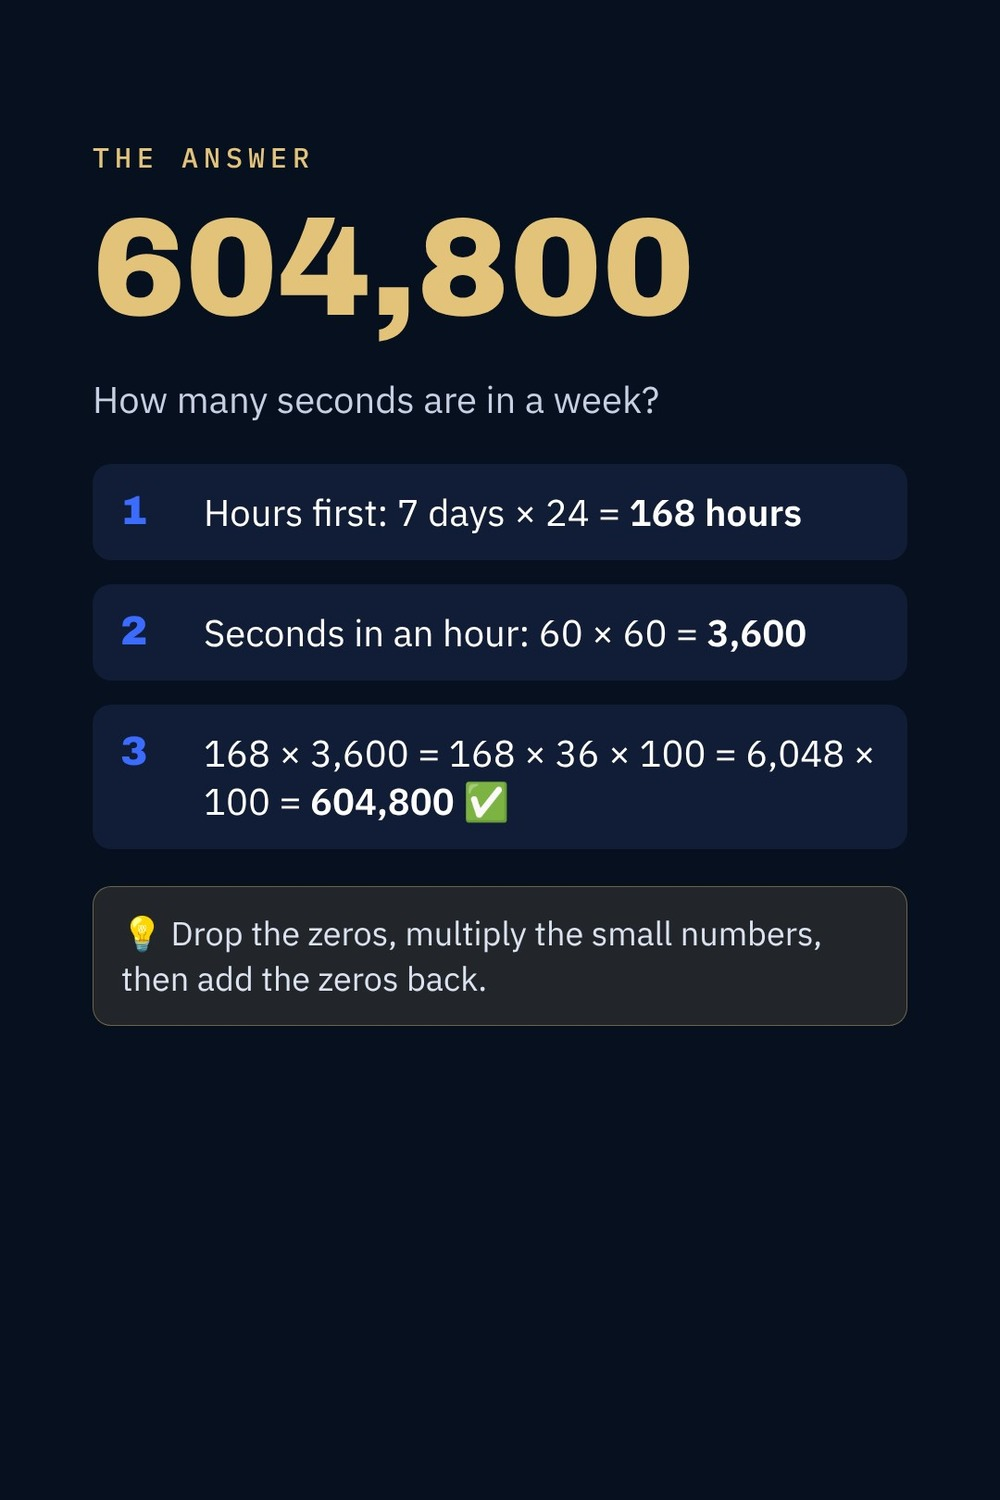
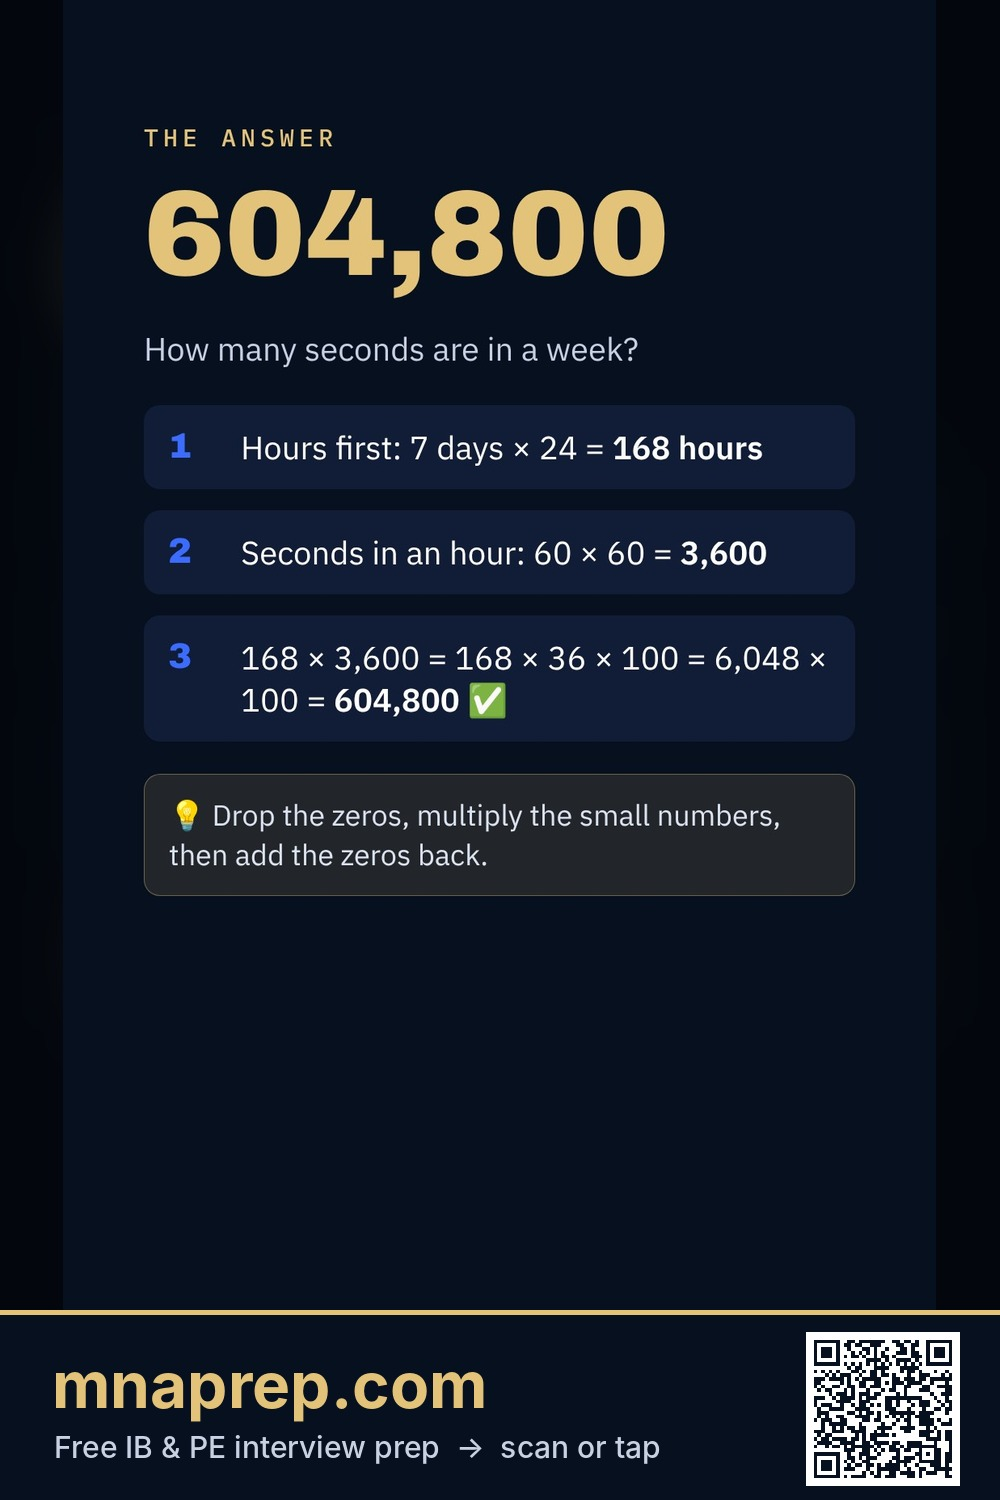
Pins: mnaprep.com + QR footer on every pin; rule: always link the website
Claude-Session: https://claude.ai/code/session_018SnaHurwArta7KomNBsgV8

Changed region(s): [[0.093, 0.0613, 0.93, 0.7053], [0.0, 0.8587, 1.0, 1.0], [0.496, 0.9507, 0.651, 0.9813]]

diff --git a/social/gen/ig.py b/social/gen/ig.py
@@ -3,12 +3,28 @@
 Usage: python3 ig.py OUTDIR slide1.jpg slide2.jpg ...
        python3 ig.py --pin OUTDIR slide.jpg ...   (1000x1500, 2:3 Pinterest pins)
 Trims empty rows at the bottom (TikTok button area), then fits the slide
-into 4:5, filling any side gap with a blurred, darkened copy of the slide."""
+into 4:5, filling any side gap with a blurred, darkened copy of the slide.
+Pins always get a footer with mnaprep.com + a QR code (Bekir: every post must link the site).
+Needs: pip install qrcode --break-system-packages"""
 import sys, os
-from PIL import Image, ImageChops, ImageFilter, ImageEnhance, ImageStat
+from PIL import Image, ImageChops, ImageFilter, ImageEnhance, ImageStat, ImageDraw, ImageFont
 args = sys.argv[1:]
-W, H = (1000, 1500) if args[0] == '--pin' else (1080, 1350)
-if args[0] == '--pin': args = args[1:]
+PIN = args[0] == '--pin'
+W, H = (1000, 1500) if PIN else (1080, 1350)
+FOOT = 190 if PIN else 0  # pin footer height
+if PIN: args = args[1:]
+def footer(img, key):
+    import qrcode
+    d = ImageDraw.Draw(img); y0 = H - FOOT
+    d.rectangle((0, y0, W, H), fill='#07101F'); d.rectangle((0, y0, W, y0 + 4), fill='#E3C27A')
+    f = lambda n, sz: ImageFont.truetype('/usr/share/fonts/opentype/inter/Inter-' + n + '.otf', sz)
+    try: big, small = f('Bold', 64), f('Medium', 30)
+    except OSError: big = small = ImageFont.load_default()
+    d.text((52, y0 + 36), 'mnaprep.com', font=big, fill='#E3C27A')
+    d.text((54, y0 + 118), 'Free IB & PE interview prep  \u2192  scan or tap', font=small, fill='#C9D2E3')
+    q = qrcode.QRCode(border=2, box_size=10); q.add_data('https://mnaprep.com/?utm_source=pinterest&utm_campaign=' + key); q.make(fit=True)
+    qi = q.make_image(fill_color='#07101F', back_color='white').convert('RGB').resize((FOOT - 36, FOOT - 36), Image.NEAREST)
+    img.paste(qi, (W - qi.width - 40, y0 + 22))
 out = args[0]; os.makedirs(out, exist_ok=True)
 for p in args[1:]:
     im = Image.open(p).convert('RGB')
@@ -22,10 +38,11 @@ for p in args[1:]:
     top = 0
     crop = im.crop((0, top * 4, 1080, max(bottom * 4, round(1080 * H / W))))
     cw, ch = crop.size
-    s = min(W / cw, H / ch)
+    s = min(W / cw, (H - FOOT) / ch)
     fg = crop.resize((round(cw * s), round(ch * s)), Image.LANCZOS)
     bg = crop.resize((W, round(ch * W / cw))).crop((0, 0, W, H)) if ch * W / cw >= H else crop.resize((W, H))
     bg = ImageEnhance.Brightness(bg.filter(ImageFilter.GaussianBlur(40))).enhance(0.45)
-    bg.paste(fg, ((W - fg.width) // 2, (H - fg.height) // 2))
+    bg.paste(fg, ((W - fg.width) // 2, (H - FOOT - fg.height) // 2))
+    if PIN: footer(bg, os.path.splitext(os.path.basename(p))[0])
     bg.save(os.path.join(out, os.path.basename(p)), quality=92)
     print(os.path.basename(p), f"content to y={bottom*4}", f"scale={s:.2f}")

diff --git a/social/DAILY.md b/social/DAILY.md
@@ -72,9 +72,12 @@ Every TikTok also goes to Instagram as a carousel at the same time (Bekir, 2026-
 - Schedule a separate Metricool post per carousel: providers [{"network":"instagram"}], media = the SHA-pinned raw URLs of the ig/ copies in slide order, `instagramData: {"type":"POST","isAiGenerated":false}`, same publication time as the TikTok version.
 - Caption: rewrite for Instagram (don't paste the TikTok caption): 1–2 short lines + a comment question + "Free practice at mnaprep.com (link in bio)" + 5–8 hashtags from the pool.
 
+## Always link the website (Bekir, 2026-11-09)
+Every post on every platform must point to mnaprep.com: the site's QR code or URL on the image (quiz/Blue Chip/oddq CTA slides, the pin footer) **and/or** the link itself (Pinterest `pinLink`, "mnaprep.com (link in bio)" in TikTok/Instagram captions). No exceptions, including finance-aesthetic pins and stories.
+
 ## 5c. Pinterest (account tiktokshopbk29, board "M&A Prep")
 One pin per post, same time as the TikTok (Bekir, 2026-11-09).
-- Pick the single best slide: the ranking chart (slide 2), the brain teaser's answer slide (slide 2), or the quiz/tip's clearest answer slide. Make it 2:3 with `python3 gen/ig.py --pin pin/<YYYY-MM-DD> <slide.jpg>` (from social/) and commit it.
+- Pick the single best slide: the ranking chart (slide 2), the brain teaser's answer slide (slide 2), or the quiz/tip's clearest answer slide. Make it 2:3 with `python3 gen/ig.py --pin pin/<YYYY-MM-DD> <slide.jpg>` (from social/; needs `pip install qrcode --break-system-packages`) and commit it. `--pin` adds a mnaprep.com + QR footer to every pin.
 - Metricool post: providers [{"network":"pinterest"}], media = the one SHA-pinned pin URL, `pinterestData: {"boardId":"M&A Prep","pinTitle":<searchable title, ≤100 chars, no emoji>,"pinLink":"https://mnaprep.com/","pinNewFormat":false,"isAiGenerated":false}`, text = 1–2 plain, keyword-rich sentences (Pinterest is search: "starting salary by major", "rule of 72", "investment banking interview questions"). No hashtags needed.
 - If the board can't be resolved, skip Pinterest for the run (don't fail the run) and mention it in the summary.
 
@@ -82,7 +85,7 @@ One pin per post, same time as the TikTok (Bekir, 2026-11-09).
 Boards (Bekir creates them on Pinterest; names must match exactly): Wall Street Salaries & Rankings · Banks, Deals & IPOs · Finance Brain Teasers · Investment Banking Interview Questions · DCF, LBO & Valuation Explained · Money Tips for Students · Finance Aesthetic · M&A Prep (catch-all).
 - Route each day's pins: Blue Chip pay/school/job rankings → Wall Street Salaries & Rankings; bank/deal/market rankings → Banks, Deals & IPOs; brain teasers → Finance Brain Teasers; interview quizzes → Investment Banking Interview Questions; DCF/LBO/valuation explainers → DCF, LBO & Valuation Explained; money tips → Money Tips for Students. If a board can't be resolved, fall back to "M&A Prep"; if that fails too, skip Pinterest.
 - **Backfill:** `social/pin/queue.json` lists ready-made pins (image, board, title, text, link). Every run, schedule up to 8 not-yet-posted items spread 12pm–11pm, set their `"posted": true`, commit.
-- **Finance aesthetic (Bekir, 2026-11-09: "doesn't even have to be about the website, just finance vibes with aesthetic pics"):** every day make 5 new cards with `node gen/aesthetic.js <spec> ../pin/aesthetic/<date>` (styles navy, cream, marble, skyline, chart; see pin/aesthetic/2026-11-09.json). Short original lines about money mindset, investing, compounding, Wall Street ambition. Never attribute a quote to a real person; any number must be checked in node. Pin them to "Finance Aesthetic" (no mnaprep.com promo needed in the text). Also render `--story` versions and use 2 of them as Instagram stories.
+- **Finance aesthetic (Bekir, 2026-11-09: "doesn't even have to be about the website, just finance vibes with aesthetic pics"):** every day make 5 new cards with `node gen/aesthetic.js <spec> ../pin/aesthetic/<date>` (styles navy, cream, marble, skyline, chart; see pin/aesthetic/2026-11-09.json). Short original lines about money mindset, investing, compounding, Wall Street ambition. Never attribute a quote to a real person; any number must be checked in node. Pin them to "Finance Aesthetic" with `pinLink` https://mnaprep.com/ and "mnaprep.com" at the end of the text. Also render `--story` versions and use 2 of them as Instagram stories.
 - Daily Pinterest total: 10 post pins + 5 aesthetic pins + backfill until the queue is empty (that's 10+ a day on every platform).
 
 ## 5d. Instagram stories (5 a day)
